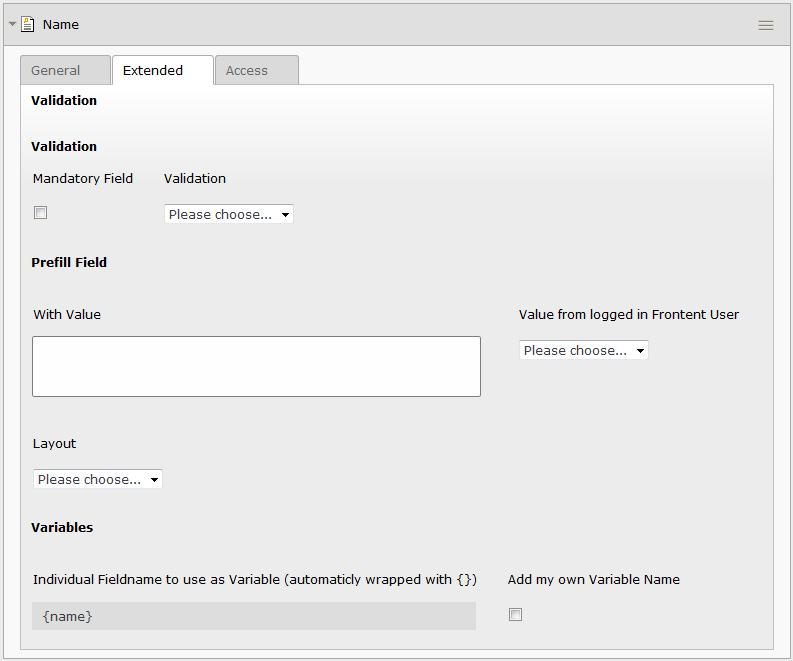
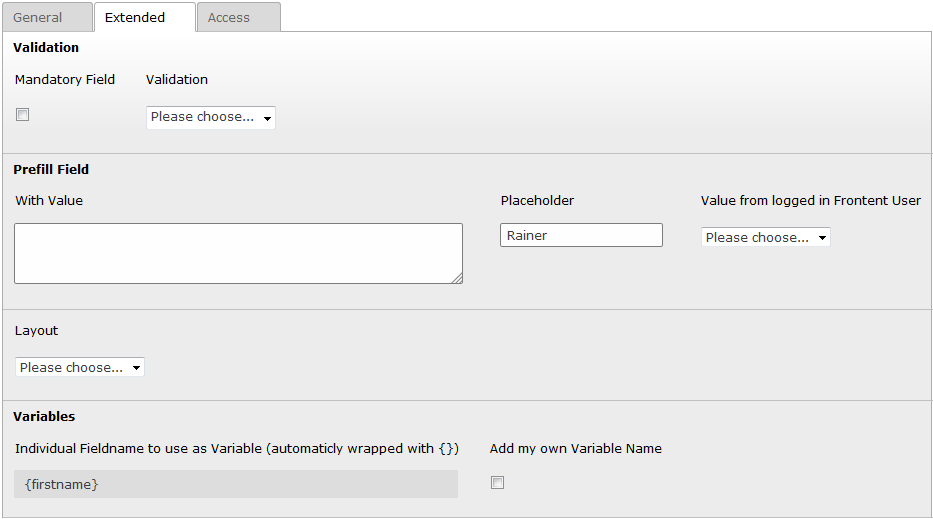
Documentation Update, RC2

diff --git a/ext_emconf.php b/ext_emconf.php
@@ -16,7 +16,7 @@ $EM_CONF[$_EXTKEY] = array (
 		mailform extension with a lots of features (spam prevention, marketing, double-optin, etc...)',
 	'category' => 'plugin',
 	'shy' => 0,
-	'version' => '2.1.0RC1',
+	'version' => '2.1.0RC2',
 	'dependencies' => 'cms,extbase,fluid',
 	'conflicts' => '',
 	'priority' => '',

diff --git a/Documentation/ForEditors/AddANewForm/Index.rst b/Documentation/ForEditors/AddANewForm/Index.rst
@@ -288,6 +288,15 @@ Explanation
       Extended
 
  - :Field:
+      Placeholder
+   :Description:
+      Add a placeholder for this input field.
+   :Explanation:
+      A placeholder text is an example, that should help the user to fill out an input field. This text is shown in bright grey within the input field. If you have a name field, you could use the placeholder "John Doe".
+   :Tab:
+      Extended
+
+ - :Field:
       Value from logged in Frontend User
    :Description:
       Check if field should be filled from the FE_Users table of a logged in fe_user.
@@ -717,6 +726,15 @@ Explanation
       Prefill field value with a static content.
    :Explanation:
       Other possibilities to prefill a field: TypoScript, GET or POST params
+   :Tab:
+      Extended
+
+ - :Field:
+      Placeholder
+   :Description:
+      Add a placeholder for this input field.
+   :Explanation:
+      A placeholder text is an example, that should help the user to fill out an input field. This text is shown in bright grey within the input field. If you have a name field, you could use the placeholder "John Doe".
    :Tab:
       Extended
 
